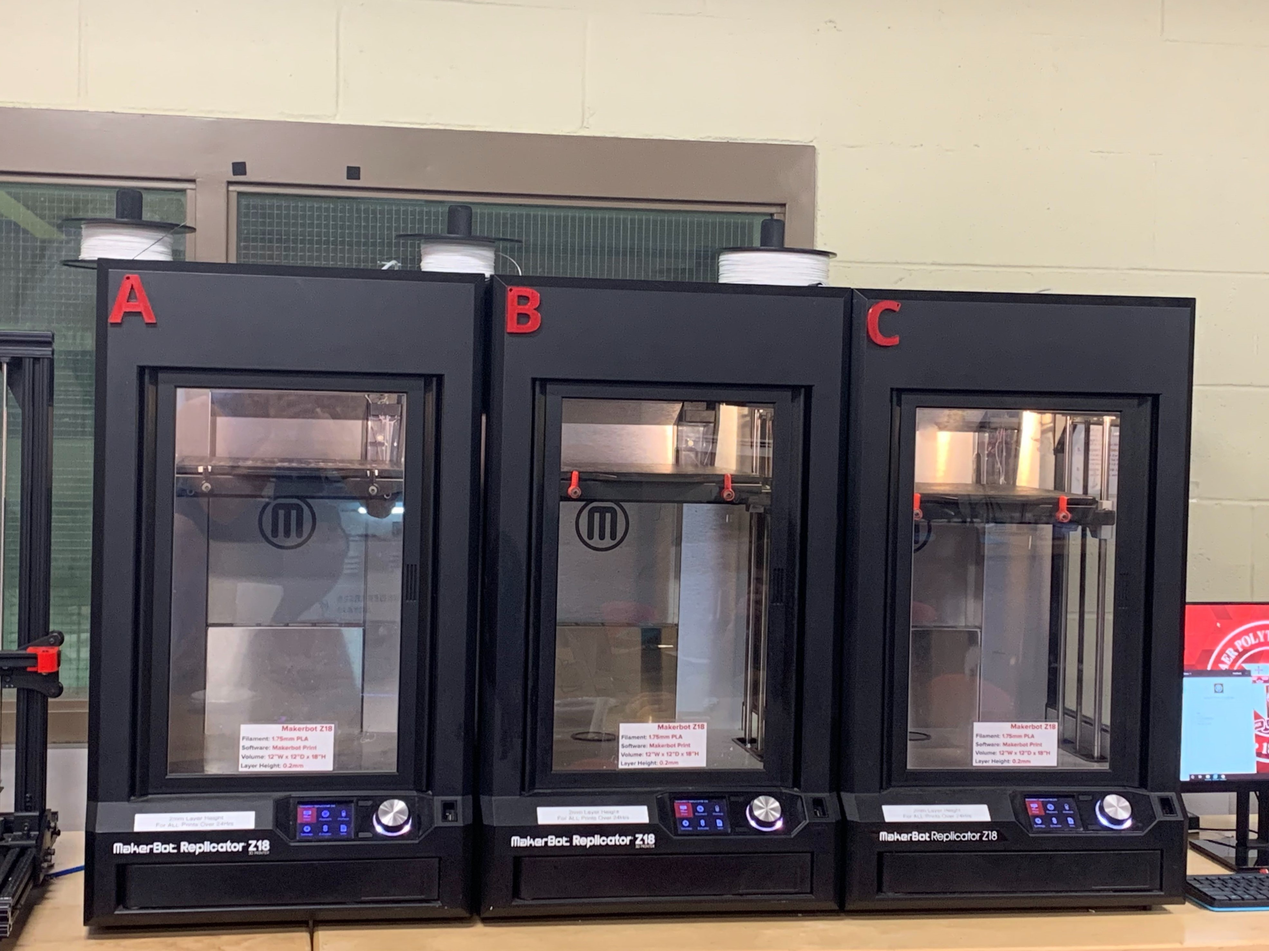
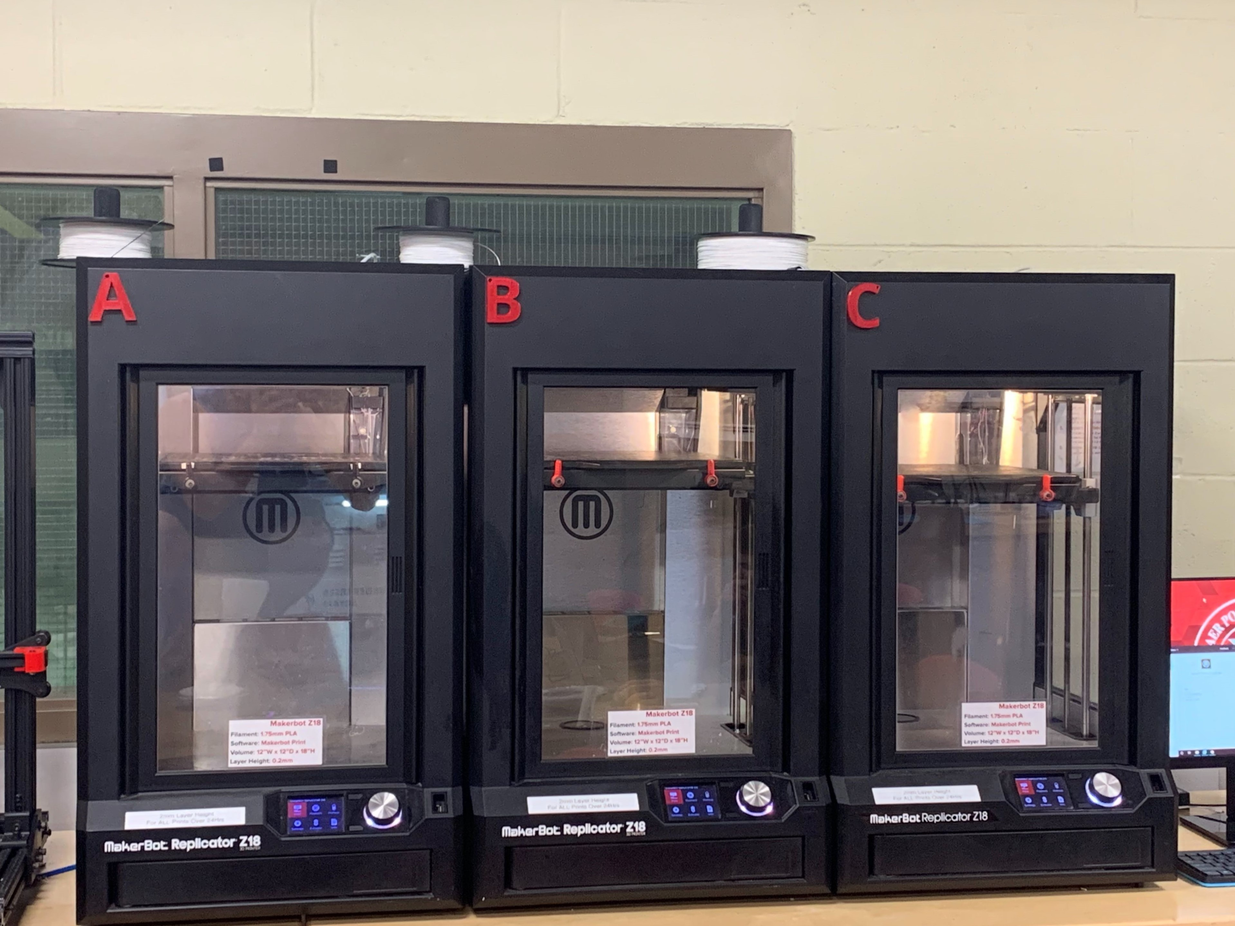
Made last 4 machines on page cards Rotated makerbot.jpg

Changed region(s): [[0.0, 0.1238, 1.0, 1.0], [0.0, 0.0928, 0.062, 0.1238]]

diff --git a/Equipment.php b/Equipment.php
@@ -129,7 +129,6 @@
                 </div>
               </div>
             </div>
-
           </div>
 
           <div class="row">
@@ -204,9 +203,9 @@
             <p class="">We have two 3D scanners here in The Forge, both are capable of scanning small objects with high detail!</p>
             <p class=""> Need to do some basic soldering, use an oscilloscope? The Forge keeps a basic Electronics Work-Station to help you! If your project requires more than this we recommend visiting the Embedded Hardware Club!</p>
           </div>
-          <div class="col-md-4 align-self-center p-0">
+          <div class="card col-md-4 align-self-center p-0">
             <img class="card-img" src="images/3DScanner.jpg"> </div>
-          <div class="col-md-4 align-self-center p-0">
+          <div class="card col-md-4 align-self-center p-0">
             <img class="card-img" src="images/ews.JPG"> </div>
         </div>
       </div>
@@ -221,9 +220,9 @@
           <p class="">Looking to design a new shirt logo? Or creating vinyl decals for your laptop? You can do it all here! If you come to The Forge and look around, most of our decals were made on our vinyl cutter!</p>
           <p class="">Need to do some sewing? Or stitch your favorite logo onto a patch of fabric? We keep a small sewing station equipped with various colors of thread!</p>
         </div>
-        <div class="col-md-4 align-self-center p-0">
+        <div class="card col-md-4 align-self-center p-0">
           <img class="card-img" src="images/vinyl.JPG"> </div>
-        <div class="col-md-4 align-self-center p-0">
+        <div class="card col-md-4 align-self-center p-0">
           <img class="card-img" src="images/sewing.JPG"> </div>
       </div>
     </div>
